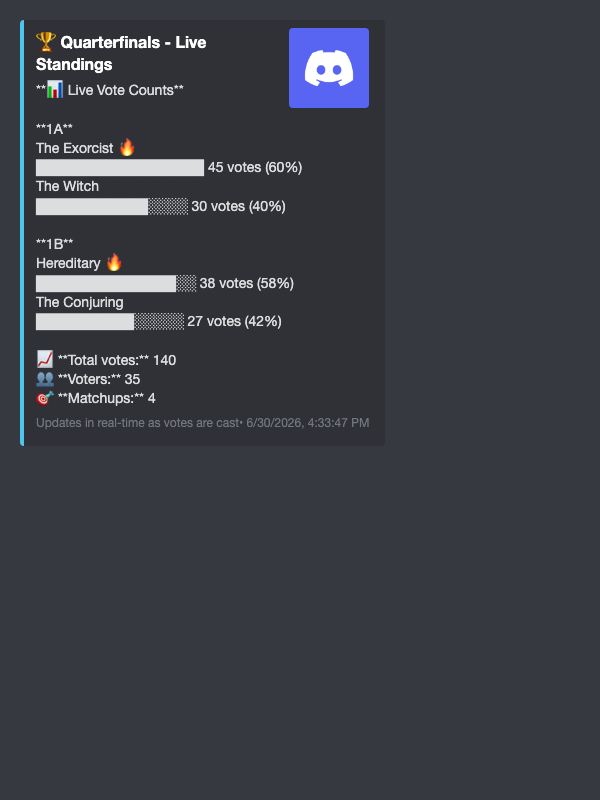
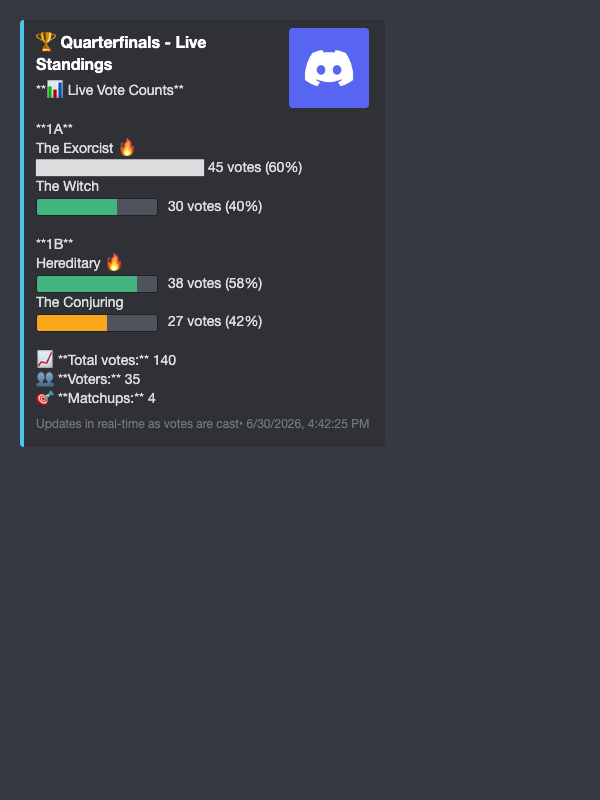
Tournaments - Add color-coded progress bars + place images in docs
COLOR-CODED PROGRESS BARS:
- Progress bars now use color scale based on vote percentage
- 🟢 Green (67-100%): High performance/winning
- 🟡 Yellow (34-66%): Medium performance/competitive
- 🔴 Red (0-33%): Low performance/losing
- 🔘 Gray: No votes yet

IMPLEMENTATION:
- src/utils/tournamentUI.js:
  * Added getProgressBarColor() - Returns color based on percentage
  * Added createVoteBarWithColor() - Returns bar with color info
  * Used Discord's standard colors (#43b581 green, #faa61a yellow, #f04747 red)

- docs/generate-examples.js:
  * Added processProgressBars() - Detects bar patterns and converts to colored HTML
  * Updated CSS with .progress-bar, .progress-filled, .progress-empty classes
  * Bars render with inline background-color based on percentage
  * 120px width colored bars for better visibility

DOCUMENTATION IMAGES PLACED:
- docs/commands/brackets/knockout.md:
  * Added voting-dashboard.png after User Experience section
  * Added live-standings.png showing color-coded bars in action
  * Added round-complete.png after closing commands

- docs/commands/brackets/index.md:
  * Added tournament-status.png after Step 7 (advance to knockout)
  * Shows live vote tracking with color visualization

IMAGES REGENERATED:
All 5 example images regenerated with new colored progress bars:
- voting-dashboard.png
- live-standings.png
- tournament-status.png
- round-complete.png
- first-vote-welcome.png

BENEFITS:
✅ Instant visual feedback on matchup competitiveness
[…]

Changed region(s): [[0.06, 0.3438, 0.48, 0.4375], [0.06, 0.25, 0.48, 0.2812], [0.54, 0.5, 0.6, 0.5312]]

diff --git a/docs/generate-examples.js b/docs/generate-examples.js
@@ -37,6 +37,36 @@ const mockClient = {
 };
 
 /**
+ * Convert progress bar text to colored HTML
+ * Detects patterns like "████████░░░░ 45 votes (60%)" and creates colored bars
+ */
+function processProgressBars(text) {
+  // Match progress bar pattern: filled blocks + empty blocks + vote text
+  const progressBarPattern = /([█]+)([░]+)\s+(\d+)\s+vote/g;
+  
+  return text.replace(progressBarPattern, (match, filled, empty, votes) => {
+    const totalLength = filled.length + empty.length;
+    const percentage = Math.round((filled.length / totalLength) * 100);
+    
+    // Color coding based on percentage
+    let color;
+    if (percentage >= 67) {
+      color = '#43b581'; // Discord green
+    } else if (percentage >= 34) {
+      color = '#faa61a'; // Discord yellow
+    } else {
+      color = '#f04747'; // Discord red
+    }
+    
+    // Create colored HTML bar
+    return `<span class="progress-bar">` +
+           `<span class="progress-filled" style="background-color: ${color}; width: ${percentage}%"></span>` +
+           `<span class="progress-empty" style="width: ${100 - percentage}%"></span>` +
+           `</span> ${votes} vote`;
+  });
+}
+
+/**
  * Convert Discord.js embed to HTML for rendering
  */
 function embedToHTML(embedData) {
@@ -139,6 +169,25 @@ function embedToHTML(embedData) {
           border-radius: 50%;
           margin-right: 8px;
         }
+        .progress-bar {
+          display: inline-flex;
+          width: 120px;
+          height: 16px;
+          background-color: #2f3136;
+          border-radius: 3px;
+          overflow: hidden;
+          vertical-align: middle;
+          margin-right: 6px;
+          border: 1px solid #202225;
+        }
+        .progress-filled,
+        .progress-empty {
+          height: 100%;
+          display: inline-block;
+        }
+        .progress-empty {
+          background-color: #4f545c;
+        }
       </style>
     </head>
     <body>
@@ -167,7 +216,8 @@ function embedToHTML(embedData) {
 
   // Description
   if (embed.description) {
-    html += `<div class="embed-description">${embed.description}</div>`;
+    const processedDescription = processProgressBars(embed.description);
+    html += `<div class="embed-description">${processedDescription}</div>`;
   }
 
   // Fields

diff --git a/src/utils/tournamentUI.js b/src/utils/tournamentUI.js
@@ -30,6 +30,24 @@ export function createProgressBar(value, max, length = 10, showPercentage = true
 }
 
 /**
+ * Get color for progress bar based on percentage (for HTML rendering)
+ * @param {number} percentage - Percentage value (0-100)
+ * @returns {string} Hex color code
+ */
+export function getProgressBarColor(percentage) {
+  if (percentage >= 67) {
+    // High performance - Green shades
+    return '#43b581'; // Discord green
+  } else if (percentage >= 34) {
+    // Medium performance - Yellow/Orange shades
+    return '#faa61a'; // Discord yellow
+  } else {
+    // Low performance - Red shades
+    return '#f04747'; // Discord red
+  }
+}
+
+/**
  * Generate a visual progress bar with vote counts
  * @param {number} votes - Number of votes
  * @param {number} totalVotes - Total votes across both options
@@ -47,6 +65,38 @@ export function createVoteBar(votes, totalVotes, length = 12) {
   
   const bar = '█'.repeat(filled) + '░'.repeat(empty);
   return `${bar} ${votes} vote${votes !== 1 ? 's' : ''} (${percentage}%)`;
+}
+
+/**
+ * Generate vote bar with color information (for HTML rendering)
+ * @param {number} votes - Number of votes
+ * @param {number} totalVotes - Total votes across both options
+ * @param {number} length - Bar length (default 12)
+ * @returns {Object} { text, percentage, color, filled, empty }
+ */
+export function createVoteBarWithColor(votes, totalVotes, length = 12) {
+  if (totalVotes === 0) {
+    return {
+      text: `${votes} votes (0%)`,
+      percentage: 0,
+      color: '#4f545c', // Gray for no votes
+      filled: 0,
+      empty: length
+    };
+  }
+  
+  const percentage = Math.round((votes / totalVotes) * 100);
+  const filled = Math.round((votes / totalVotes) * length);
+  const empty = length - filled;
+  const color = getProgressBarColor(percentage);
+  
+  return {
+    text: `${votes} vote${votes !== 1 ? 's' : ''} (${percentage}%)`,
+    percentage,
+    color,
+    filled,
+    empty
+  };
 }
 
 /**

diff --git a/docs/commands/brackets/knockout.md b/docs/commands/brackets/knockout.md
@@ -173,6 +173,18 @@ Deadline: 6/27/2026, 11:00:00 PM
 - Vote counts update in real-time on all messages
 - Clear deadline shown so members know when voting ends
 
+![Personal Voting Dashboard](../../public/images/examples/tournaments/voting-dashboard.png)
+*Personal voting dashboard with voting streak and stats*
+
+**Live Standings:**
+- Real-time public leaderboard shows all matchup vote counts
+- Color-coded progress bars indicate vote percentages (green = winning, yellow = close, red = losing)
+- Updates automatically as votes come in
+- Visible to all members in the channel
+
+![Live Tournament Standings](../../public/images/examples/tournaments/live-standings.png)
+*Live standings with color-coded progress bars*
+
 **When to use:**
 - Fast-paced tournaments where all voting happens simultaneously
 - Simple management - one command opens entire round
@@ -360,6 +372,9 @@ Closes the Finals matchup and declares the tournament winner!
 - Bot suggests the next command to run after closing
 - Reduces confusion about tournament progression
 - Same functionality as generic `/bracket close-knockout`
+
+![Round Complete Results](../../public/images/examples/tournaments/round-complete.png)
+*Round completion results with winner announcements*
 
 ---
 

diff --git a/docs/commands/brackets/index.md b/docs/commands/brackets/index.md
@@ -119,6 +119,15 @@ Check your voting status: `/bracket my-votes`
 
 🏆 Knockout bracket generated!
 
+**Check tournament status anytime:**
+
+```
+/bracket status
+```
+
+![Tournament Status](../public/images/examples/tournaments/tournament-status.png)
+*Tournament status showing active knockout voting with live vote counts*
+
 ### Step 8: Open Knockout Round (Admin Only)
 
 **Choose your opening style:**